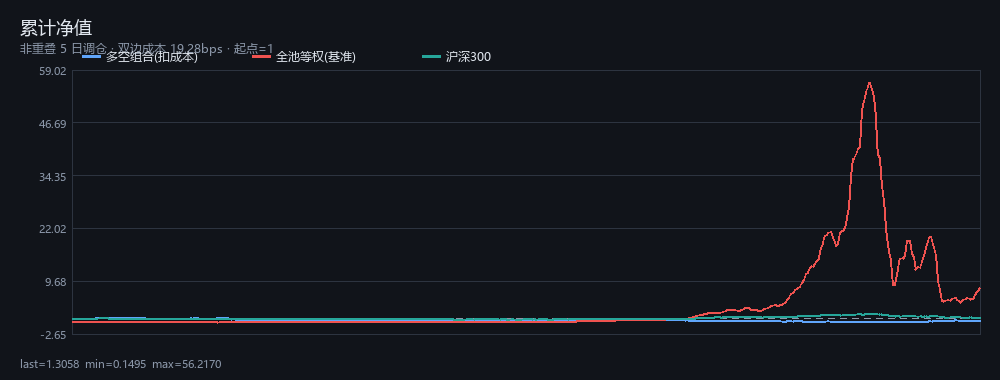
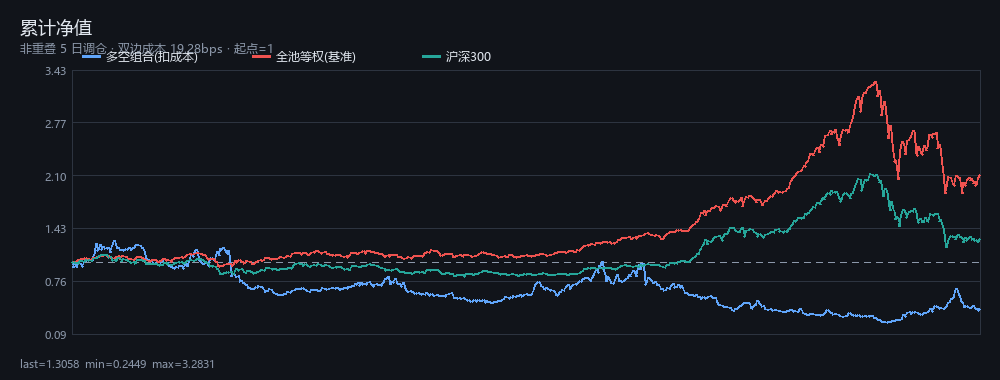
docs: GitHub 开源项目借鉴清单 + 修复净值基准重叠收益连乘 bug
- docs/10: 按当前缺口对应 6 类可借鉴项目，明确'抄设计不抄依赖'
- brief.py: 基准净值改用日频收益连乘（原用 h 日重叠收益连乘，实测虚高到 56 倍）

diff --git a/qcore/brief.py b/qcore/brief.py
@@ -76,8 +76,11 @@ def build(pool_n: int = 300, start: str = "2013-01-01", horizon: int = 5,
     ls = AN.long_short_series(res["scores"], p3d.RET[horizon].T, horizon)
     cost = 0.7 * 19.28 / 1e4
     nav_ls = np.cumprod(1 + np.nan_to_num(ls - cost)) if ls.size else np.array([1.0])
-    pool_ret = np.nanmean(p3d.RET[horizon], axis=1)
-    nav_pool = np.cumprod(1 + np.nan_to_num(pool_ret)) / horizon
+    # 基准必须用**日频**收益连乘；用 h 日重叠收益连乘会把同一段行情算 h 次（实测会飙到 56 倍）
+    with np.errstate(invalid="ignore", divide="ignore"):
+        daily = p3d.CLOSE[1:] / p3d.CLOSE[:-1] - 1.0
+    ew = np.nanmean(np.where(np.isfinite(daily), daily, np.nan), axis=1)
+    nav_pool = np.cumprod(1.0 + np.nan_to_num(ew))
     idx = load_index("000300").set_index("date")["close"].reindex(pd.DatetimeIndex(dates))
     nav_idx = (idx / idx.iloc[0]).to_numpy()
     CH.line_png(os.path.join(IMG_DIR, "nav.png"),

diff --git a/docs/10_github_landscape.md b/docs/10_github_landscape.md
@@ -1,0 +1,108 @@
+# GitHub 开源项目借鉴清单
+
+> 目标：找出本项目**当前缺口**对应的成熟实现，只抄设计、不引入依赖。
+> 星数是成熟度的粗代理，不是质量证明。小星数项目只当"实现参考"，不当依赖。
+
+---
+
+## 一、我们当前的缺口（按优先级）
+
+| 缺口 | 现状 | 需要什么 |
+|---|---|---|
+| 股吧评论抓取不稳 | 用正则从 HTML 提 `post_title`，脆弱 | 稳定的 API 端点 |
+| 中文情绪词典太薄 | 30+30 个词，人工整理 | 更全的金融情感词典 / 更好的分词 |
+| A 股数据单源依赖 | 东财为主，腾讯/新浪兜底 | 成熟的多源库做交叉验证 |
+| 因子评估口径 | 自写 IC/分层/多空 | 业界标准因子分析范式 |
+| 行为因子的成熟实现 | 自写 10 个 | 已验证的行为因子定义 |
+
+---
+
+## 二、可借鉴项目（按缺口对应）
+
+### 1. 股吧 / 雪球爬虫（补"评论抓取"）
+
+| 项目 | 星 | 借鉴点 |
+|---|---|---|
+| `smilezjw/Guba_Xueqiu_Crawler` | 7 | 同时覆盖股吧与雪球两源；看它的**分页参数与请求头**，比 HTML 正则稳 |
+| `nkzhengwt/Eastmoney_Guba_Nlp_Daily` | 2 | 日频采集 + NLP 分析的完整链路，可参考它的**存储结构**（按日按股） |
+| `nexusyangsuibe/gubaCrawler` | 1 | 最小实现，适合核对端点是否仍然有效 |
+
+**要抄的**：股吧列表页的真实数据接口（通常在页面内嵌 JSON 或 `gbapi.eastmoney.com`），
+以及"阅读数 / 回复数 / 发帖时间"的字段名。**不要抄**它们的存储与并发（都很朴素）。
+
+### 2. 中文股票评论情绪（补"情绪打分"）
+
+| 项目 | 星 | 借鉴点 |
+|---|---|---|
+| `KK-Kris/Stock-sentimnet-analysis` | 22 | 中文股评情绪的方法对比（词典 vs 机器学习），可看它的**标注集构造** |
+| `Lunaira-Y/FinSentinel` | 1 | LLM 辅助构建金融情感数据集的流程 |
+
+**要抄的**：① 情感词典的分层结构（基础词 / 程度副词 / 否定词，我们的词典缺后两类）；
+② 否定词处理（"不涨"≠"涨"）——**这是我们当前词典法最大的漏洞**。
+
+### 3. A 股数据（补"多源交叉验证"）
+
+| 项目 | 星 | 借鉴点 |
+|---|---|---|
+| `akfamily/akshare` | 23k | 事实标准。它的**复权实现与字段口径**值得对照；`stock_zh_a_hist` 的 adjust 参数处理 |
+| `rootSunc/CNEquity` | 974 | A 股因子/数据工程化组织方式 |
+| `TNT-Likely/PanWatch` | 2.4k | A/H/美股监控与告警的工程结构 |
+
+**要抄的**：akshare 的**复权口径与字段命名**（我们已踩过 `fqt=1` 负价的坑，可对照它的处理）；
+**不要抄**：整库依赖（我们坚持零重依赖，只用 urllib）。
+
+### 4. 因子分析（补"评估口径"）
+
+| 项目 | 星 | 借鉴点 |
+|---|---|---|
+| `huuan26/polars-anta` | 31 | WorldQuant Alpha 因子集的 Polars 向量化实现，**性能范式**值得学 |
+| `zk-quantum/alphalens-factor-analysis` | 2 | alphalens 的标准输出（IC 表、分层收益、换手） |
+
+**要抄的**：alphalens 的**因子评估标准输出格式**（我们已有等价实现，可对齐字段名便于交叉核对）；
+`polars-anta` 的**批量因子计算**思路（用 Polars 惰性执行替代 pandas，可把 300 股从 8s 降到 1s 级，但会引入新依赖，暂不做）。
+
+### 5. 行为金融因子（补"人性因子"）
+
+| 项目 | 星 | 借鉴点 |
+|---|---|---|
+| `ChenLifan0220/Stock_selection_and_timing_strategy_using_behavioral_financial_factors` | 8 | 直接对应我们的方向；看它的**因子构造与中性化处理** |
+
+**要抄的**：行业/市值**中性化**的具体做法——这是我们 O1（amihud）上线前必须补的一步。
+
+### 6. 中文金融 LLM（远期）
+
+| 项目 | 星 | 借鉴点 |
+|---|---|---|
+| `jerry1993-tech/Cornucopia-LLaMA-Fin-Chinese` | 656 | 中文金融语料与继续预训练方案 |
+
+**暂不引入**：模型体积与算力需求远超 N100 目标机。记录在此备查。
+
+---
+
+## 三、明确的取舍结论
+
+**抄设计，不抄依赖。** 本项目坚持 numpy + pandas 两条依赖，理由是目标运行环境
+（小主机 / NAS）装不了编译栈。因此：
+
+- ✅ 抄：端点、字段口径、词典结构、中性化做法、评估输出格式
+- ❌ 不抄：框架依赖（akshare / polars / talib）、并发模型、存储层
+
+**下一步最该做的三件事**（按性价比）：
+1. 从股吧爬虫项目里核对**稳定端点**，替掉脆弱的 HTML 正则。
+2. 给情绪词典加**否定词与程度副词**（"不涨""暴跌"当前会误判）。
+3. 给 amihud 因子加**行业 + 市值中性化**，再测一次增量 IC——这是最可能出真 alpha 的一步。
+
+---
+
+## 四、如何验证"抄来的东西"确实更好
+
+不许因为"大项目这么做"就采纳。每个借鉴都要过同一道门：
+
+```
+1. 用本项目数据跑一遍 → 得到 IC 与 HAC t
+2. 与现有实现对比 → 增量是否显著（配对检验）
+3. 是否通过 Deflated Sharpe（多重检验校正）
+4. 是否改变结论方向（如果只是数字好看一点，不值得加复杂度）
+```
+
+**没有通过这四步的"优化"，一律不合入。**
